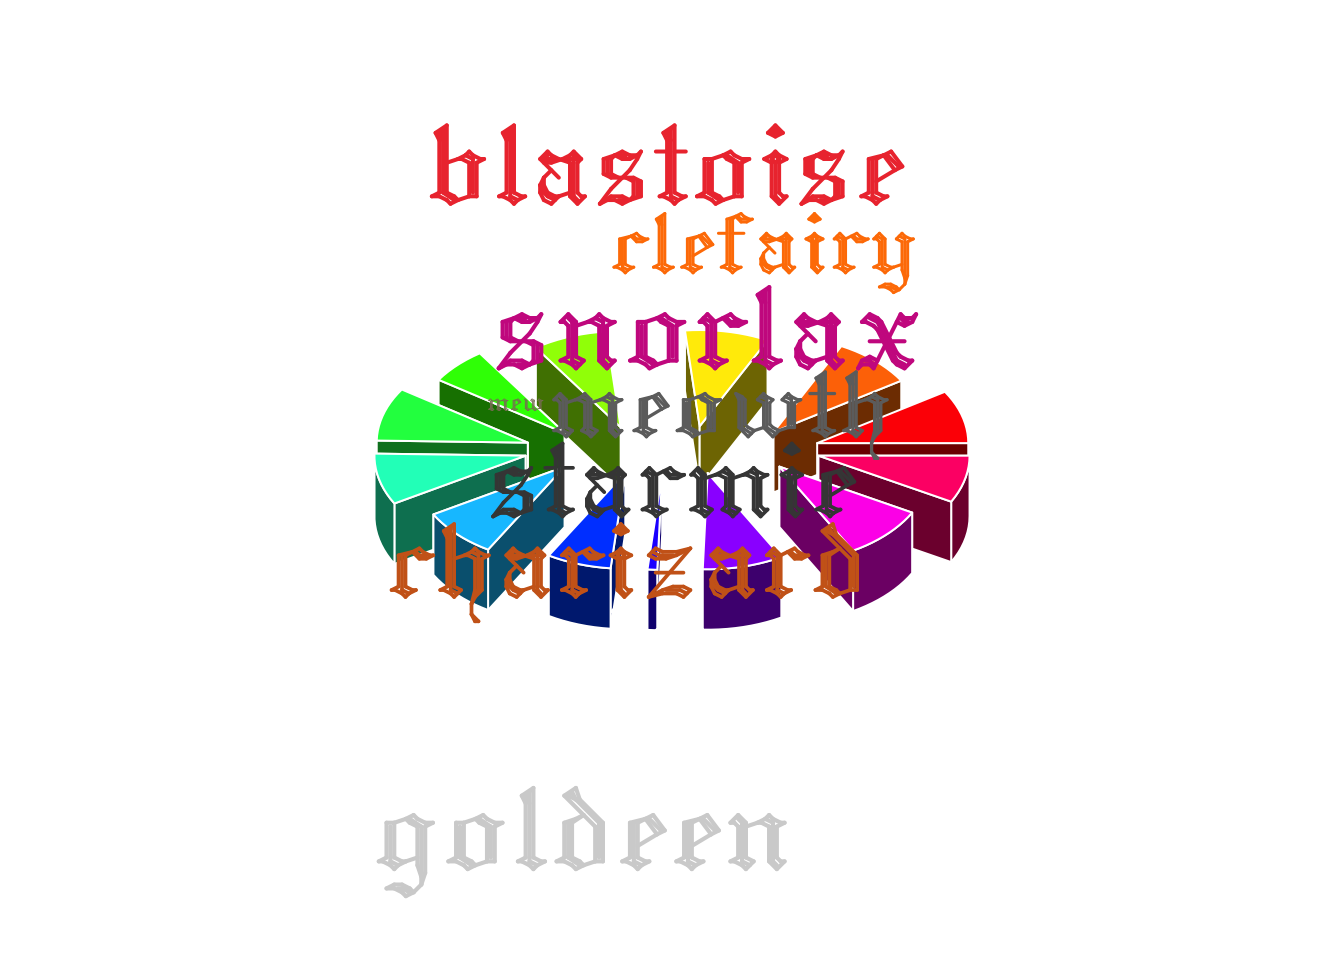
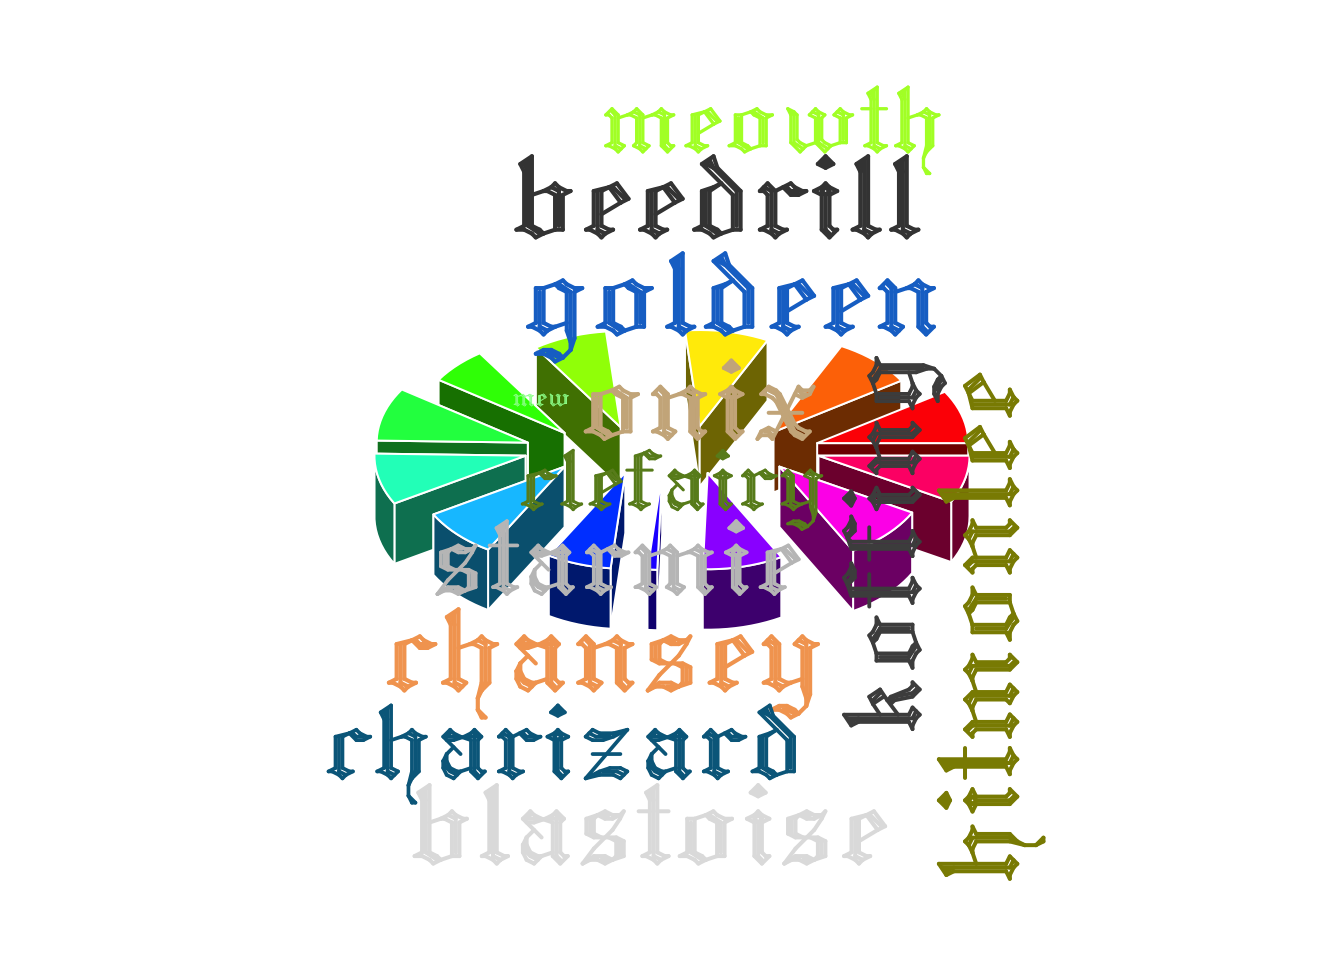
Note cloud pie missing text

Changed region(s): [[0.25, 0.0938, 0.7812, 0.9375]]

diff --git a/_site/posts/2018-05-25-cloud-pie/index.html b/_site/posts/2018-05-25-cloud-pie/index.html
@@ -253,21 +253,14 @@ $ n       &lt;int&gt; 26, 25, 26, 23, 18, 26, 25, 24, 20, 3, 25, 26, 23</code></
 <span id="cb4-5"><a href="#cb4-5" aria-hidden="true" tabindex="-1"></a>)</span></code><button title="Copy to Clipboard" class="code-copy-button"><i class="bi"></i></button></pre></div>
 <div class="cell-output cell-output-stderr">
 <pre><code>Warning in wordcloud(words = data[[name_col]], freq = data[[count_col]], :
-chansey could not be fit on page. It will not be plotted.</code></pre>
-</div>
-<div class="cell-output cell-output-stderr">
-<pre><code>Warning in wordcloud(words = data[[name_col]], freq = data[[count_col]], :
-koffing could not be fit on page. It will not be plotted.</code></pre>
-</div>
-<div class="cell-output cell-output-stderr">
-<pre><code>Warning in wordcloud(words = data[[name_col]], freq = data[[count_col]], :
-beedrill could not be fit on page. It will not be plotted.</code></pre>
+snorlax could not be fit on page. It will not be plotted.</code></pre>
 </div>
 <div class="cell-output-display">
 <p><img src="index_files/figure-html/cloud_pie-1.png" class="img-fluid" width="672"></p>
 </div>
 </div>
 <p>Did I forget to mention that the typeface is gothic and colours are selected randomly from the named colours that R knows about? The words and pie slices are sized by frequency and match up by colour. Sensational.</p>
+<p>Oh, and, haha, sometimes the wordcloud will miss out some words if they don’t fit nicely. Doesn’t matter: people will be so overawed by the plot’s overall beauty that they won’t notice a few missing values, amirite.</p>
 </section>
 <section id="you-know-what-to-do" class="level2">
 <h2 class="anchored" data-anchor-id="you-know-what-to-do">You know what to do</h2>
@@ -283,7 +276,7 @@ Session info
 </summary>
 <div class="cell">
 <div class="cell-output cell-output-stdout">
-<pre><code>Last rendered: 2023-08-09 22:14:50 BST</code></pre>
+<pre><code>Last rendered: 2023-08-24 20:40:15 BST</code></pre>
 </div>
 <div class="cell-output cell-output-stdout">
 <pre><code>R version 4.3.1 (2023-06-16)

diff --git a/_site/index.html b/_site/index.html
@@ -2541,7 +2541,7 @@ Tid-ye-text with {geniusr}
 </div>
 </a>
 </div>
-<div class="g-col-1" data-index="149" data-categories="dataviz,plotrix,r,text" data-listing-date-sort="1527202800000" data-listing-file-modified-sort="1692219792091" data-listing-date-modified-sort="NaN" data-listing-reading-time-sort="2">
+<div class="g-col-1" data-index="149" data-categories="dataviz,plotrix,r,text" data-listing-date-sort="1527202800000" data-listing-file-modified-sort="1692906013867" data-listing-date-modified-sort="NaN" data-listing-reading-time-sort="2">
 <a href="./posts/2018-05-25-cloud-pie/index.html" class="quarto-grid-link">
 <div class="quarto-grid-item card h-100 card-left">
 <div class="card-body post-contents">
